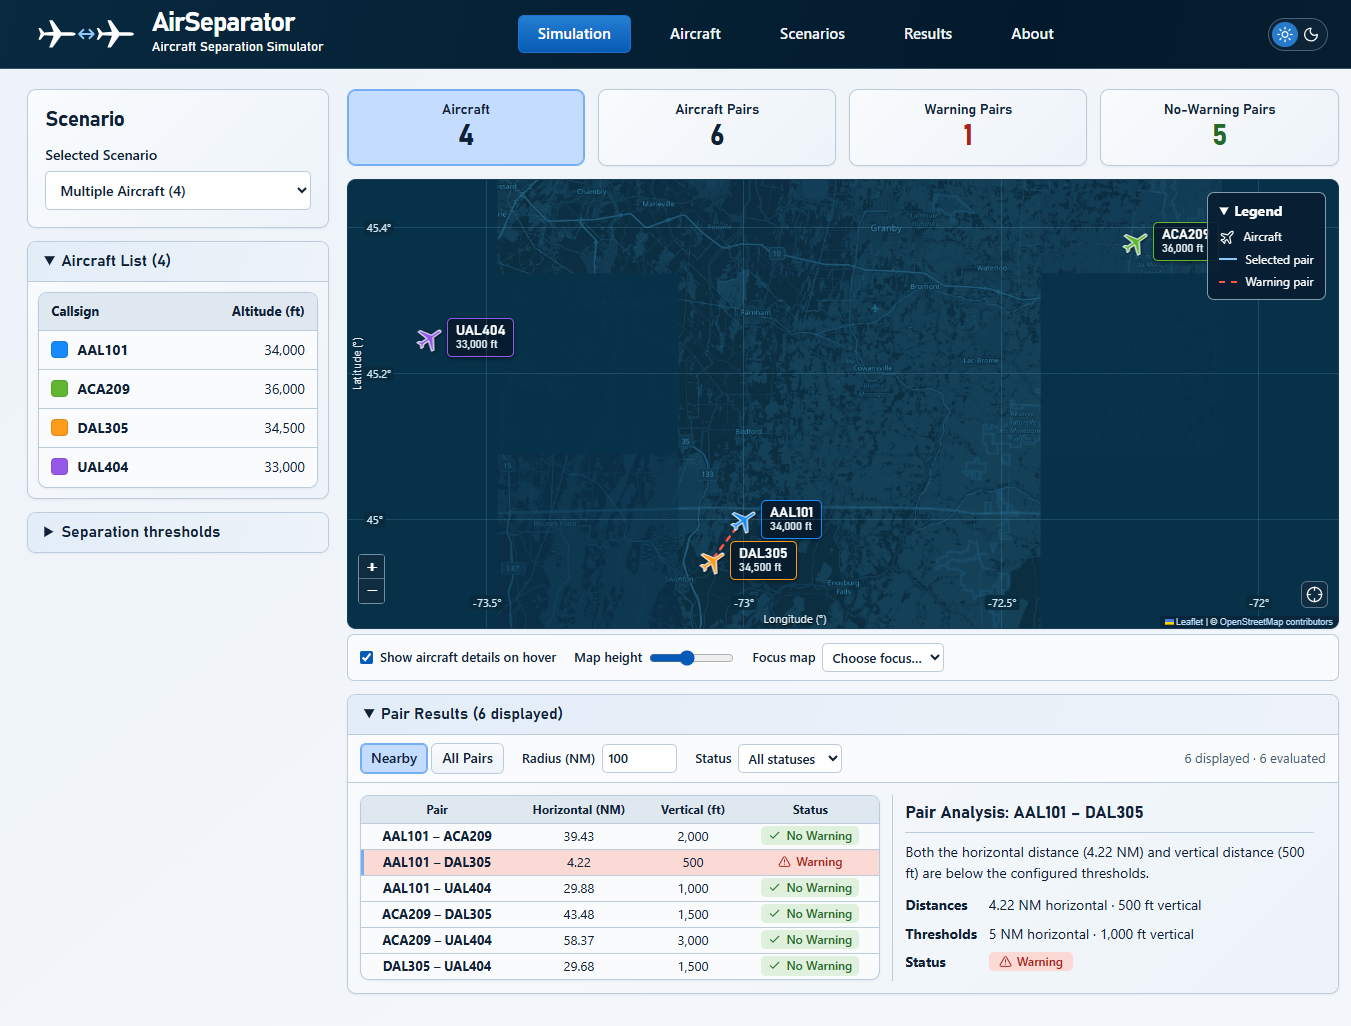
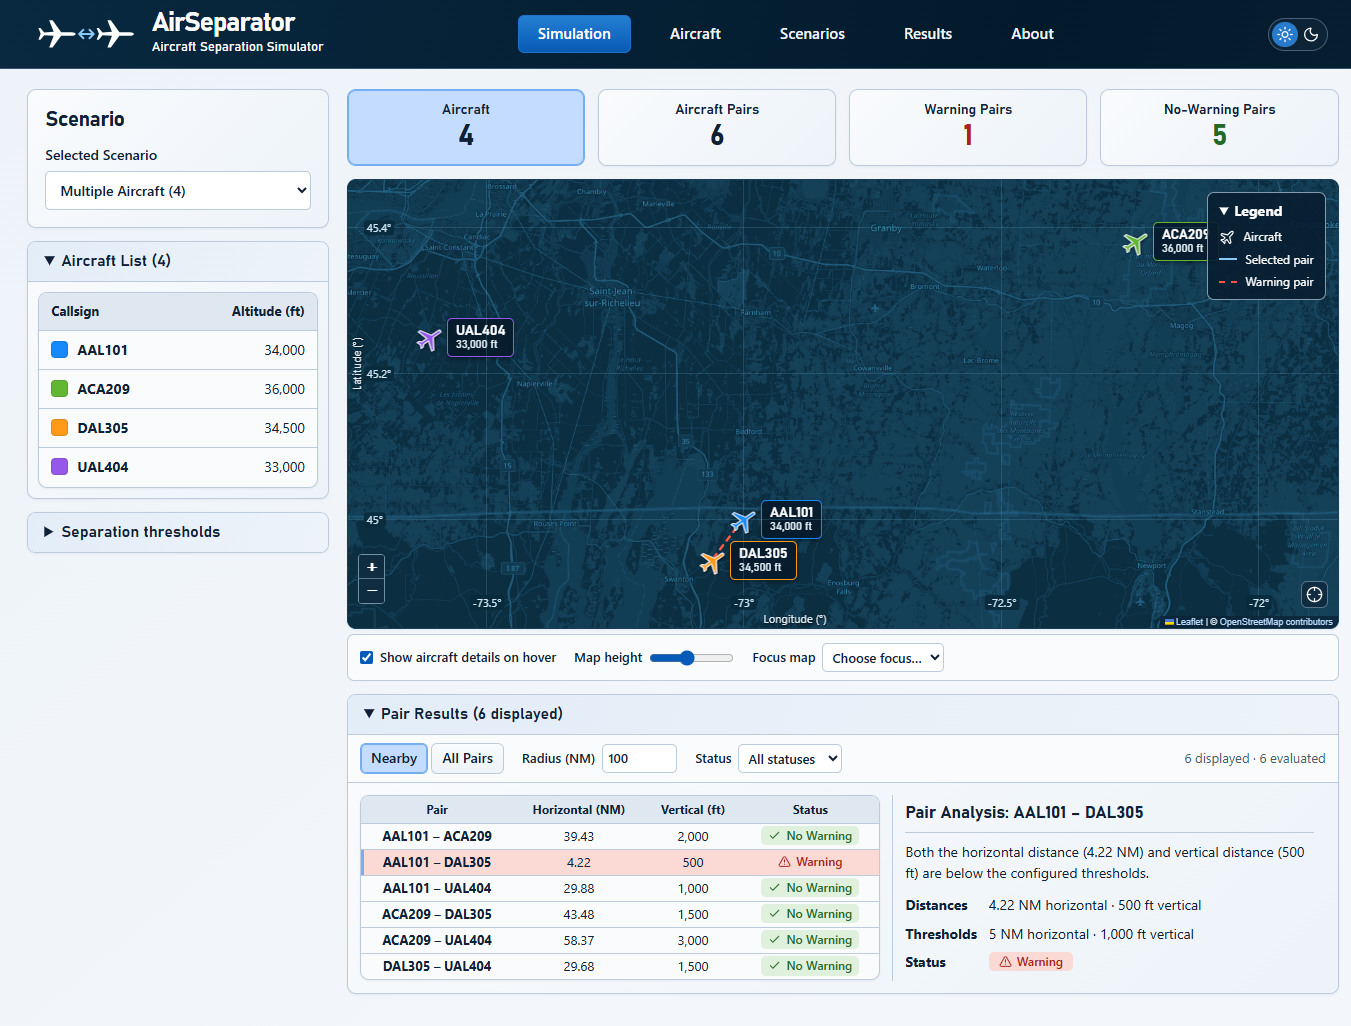
Sprint 3: Docker, UI & Improvements wraps up.

diff --git a/frontend/src/AircraftForm.tsx b/frontend/src/AircraftForm.tsx
@@ -1,7 +1,7 @@
 import { useState, type FormEvent } from 'react'
 import { ChevronDown } from 'lucide-react'
 import { fields, validateAircraft, type Draft } from './aircraftInput'
-import { palette, type MarkerAircraft } from './scenario'
+import { maxUserAircraft, palette, type MarkerAircraft } from './scenario'
 import { suggestedColor } from './airlines'
 
 interface Props {
@@ -9,6 +9,7 @@ interface Props {
   original?: MarkerAircraft
   roster: MarkerAircraft[]
   limit: number
+  userCount: number
   onSave: (p: MarkerAircraft) => void
   onCancel?: () => void
 }
@@ -21,7 +22,7 @@ function draftOf(p?: MarkerAircraft): Draft {
     color: p?.color ?? palette[0],
   }
 }
-export function AircraftForm({ mode, original, roster, limit, onSave, onCancel }: Props) {
+export function AircraftForm({ mode, original, roster, limit, userCount, onSave, onCancel }: Props) {
   const [draft, setDraft] = useState(() => draftOf(original))
   const [manualColor, setManualColor] = useState(!!original)
   const [error, setError] = useState('')
@@ -34,6 +35,8 @@ export function AircraftForm({ mode, original, roster, limit, onSave, onCancel }
   function submit(e: FormEvent) {
     e.preventDefault()
     try {
+      if (!edit && userCount >= maxUserAircraft)
+        throw Error('You have reached the limit of ' + maxUserAircraft + ' user-added aircraft. Remove an aircraft before adding another.')
       if (!edit && roster.length >= limit)
         throw Error('A calculation supports at most ' + limit + ' aircraft.')
       const p = validateAircraft(draft, new Set(roster.filter((a) => a !== original).map((a) => a.callSign)))

diff --git a/frontend/src/AirspaceMap.tsx b/frontend/src/AirspaceMap.tsx
@@ -151,7 +151,7 @@ export function AirspaceMap({
     const view = map.current!, layer = L.layerGroup().addTo(view)
     const popup = L.popup({autoPan: false, closeButton: false, offset: [0, -12], className:'aircraft-popup'})
     let pinned: L.Marker | undefined
-    const close = () => { pinned = undefined; popup.remove() }
+    const close = () => { pinned = undefined; view.closePopup(popup) }
     view.on('click', close)
     function escape(e: KeyboardEvent) { if (e.key === 'Escape') close() }
     view.getContainer().addEventListener('keydown', escape)
@@ -176,9 +176,13 @@ export function AirspaceMap({
       const element = m.getElement()!
       element.setAttribute('aria-label', p.callSign + ', aircraft details')
       const show = () => popup.setLatLng(m.getLatLng()).setContent(detailContent(p)).openOn(view)
-      const hideTransient = () => { if (!pinned) popup.remove() }
+      const hideTransient = () => { if (!pinned) view.closePopup(popup) }
       if (hover) m.on('mouseover', () => { if (!pinned) show() }).on('mouseout', hideTransient)
-      element.addEventListener('focus', () => { if (!pinned) show() })
+      element.addEventListener('focus', () => {
+        window.setTimeout(() => {
+          if (!pinned && document.activeElement === element) show()
+        }, 0)
+      })
       element.addEventListener('blur', hideTransient)
       const toggle = () => { if (pinned === m) close(); else { pinned = m; show() } }
       m.on('click', toggle)

diff --git a/frontend/src/aircraftInput.ts b/frontend/src/aircraftInput.ts
@@ -1,4 +1,4 @@
-import { inRange, type MarkerAircraft } from './scenario'
+import { inRange, maxUserAircraft, type MarkerAircraft } from './scenario'
 import { suggestedColor } from './airlines'
 export const fields = [
   { key: 'latitudeDegrees', label: 'Latitude (°)', min: -90, max: 90, example: '45.0000' },
@@ -94,6 +94,11 @@ export function importCsv(text: string, scenario: MarkerAircraft[], user: Marker
     }
   })
   if (!added.length) throw Error('Include at least one aircraft row beneath the header.')
+  const userTotal = (mode === 'merge' ? user.length : 0) + added.length
+  if (userTotal > maxUserAircraft)
+    throw Error('This import would create ' + userTotal + ' user-added aircraft. The limit is ' + maxUserAircraft +
+      '. Remove ' + (userTotal - maxUserAircraft) + ' aircraft or CSV rows' +
+      (mode === 'merge' && user.length && added.length <= maxUserAircraft ? ', or choose Replace User-Added.' : '.'))
   const total = retained.length + added.length
   if (total > limit) {
     const counts = scenario.length + ' scenario + ' + (mode === 'merge' ? user.length : 0) + ' user-added + ' + added.length + ' imported = ' + total

diff --git a/frontend/src/App.tsx b/frontend/src/App.tsx
@@ -8,6 +8,7 @@ import { ResultsPage } from './ResultsPage'
 import { AboutPage } from './AboutPage'
 import {
   calculationBody,
+  maxTotalAircraft,
   inRange,
   pairId,
   type MarkerAircraft,
@@ -65,7 +66,7 @@ export default function App() {
     !!config &&
     inRange(values.horizontalNm, config.limits.horizontalNm) &&
     inRange(values.verticalFeet, config.limits.verticalFeet)
-  const limit = config?.limits.aircraft.max ?? 20
+  const limit = config?.limits.aircraft.max ?? maxTotalAircraft
   const validCount = aircraft.length >= (config?.limits.aircraft.min ?? 2) && aircraft.length <= limit
   const calc = useApi<Results>(
     '/api/conflicts',
@@ -97,7 +98,7 @@ export default function App() {
     : !config
       ? 'Connecting to the engine…'
       : !validCount
-        ? 'Use 2–20 aircraft to calculate separation.'
+        ? 'Use ' + (config?.limits.aircraft.min ?? 2) + '–' + limit + ' aircraft to calculate separation.'
         : !validThresholds
           ? 'Enter thresholds within the displayed ranges.'
           : 'Calculating separation…'

diff --git a/frontend/src/session.ts b/frontend/src/session.ts
@@ -1,4 +1,4 @@
-import { initialScenario, samples, type MarkerAircraft } from './scenario'
+import { initialScenario, samples, maxUserAircraft, maxTotalAircraft, type MarkerAircraft } from './scenario'
 import { validateAircraft, type Draft } from './aircraftInput'
 import type { CatalogSelection } from './ScenariosPage'
 
@@ -11,7 +11,8 @@ export function readSession() {
     if (!raw) return initial
     const saved = JSON.parse(raw)
     const sample = samples.find(s => s.name === saved.name)
-    if (!sample || !Array.isArray(saved.scenario) || !Array.isArray(saved.user) || saved.scenario.length + saved.user.length > 20) return initial
+    if (!sample || !Array.isArray(saved.scenario) || !Array.isArray(saved.user) ||
+        saved.user.length > maxUserAircraft || saved.scenario.length + saved.user.length > maxTotalAircraft) return initial
     const used = new Set<string>()
     function restore(p: MarkerAircraft) {
       const draft = Object.fromEntries(Object.entries(p).map(([key, v]) => [key, String(v)])) as Draft

diff --git a/frontend/src/AircraftPage.tsx b/frontend/src/AircraftPage.tsx
@@ -209,6 +209,7 @@ export function AircraftPage({ user, scenario, limit, add, replace, remove }: Pr
           mode="Add"
           roster={roster}
           limit={limit}
+          userCount={user.length}
           onSave={(p) => {
             add([p])
             setTab('user')
@@ -224,6 +225,7 @@ export function AircraftPage({ user, scenario, limit, add, replace, remove }: Pr
             original={editing}
             roster={roster}
             limit={limit}
+            userCount={user.length}
             onSave={(p) => {
               if (editing) replace(editing, p)
               setEditing(p)

diff --git a/frontend/src/AboutPage.tsx b/frontend/src/AboutPage.tsx
@@ -72,7 +72,7 @@ const sections = [
     items: [
       'Preview and load examples on Scenarios. User-added aircraft stay in the roster.',
       'On Aircraft, enter a unique callsign, position, altitude, and map color, or import a CSV.',
-      'Use 2–20 aircraft to calculate results. Expand Separation thresholds to adjust the limits.',
+      'Use 2–50 aircraft to calculate results. You can add up to 30 of your own. Expand Separation thresholds to adjust the limits.',
       'Choose a pair to inspect its distances and status on Simulation or Results.',
     ],
   },

diff --git a/frontend/src/scenario.ts b/frontend/src/scenario.ts
@@ -4,6 +4,8 @@ export interface Aircraft {
   longitudeDegrees: number
   altitudeFeet: number
 }
+export const maxUserAircraft = 30
+export const maxTotalAircraft = 50
 export interface MarkerAircraft extends Aircraft {
   color: string
 }

diff --git a/frontend/src/styles.css b/frontend/src/styles.css
@@ -989,6 +989,9 @@ em {
 }
 .error {
   background: var(--warn-bg);
+  border: 1px solid var(--warn);
+  border-left: 4px solid var(--warn);
+  line-height: 1.5;
 }
 .empty {
   padding: 15px;

diff --git a/backend/tests/test_api.py b/backend/tests/test_api.py
@@ -58,7 +58,7 @@ class ApiTests(unittest.TestCase):
         self.assertEqual(self.request("/api/config"), {
             "defaults": {"horizontalNm": 5, "verticalFeet": 1000},
             "limits": {"horizontalNm": {"min": 0.5, "max": 20},
-                       "verticalFeet": {"min": 100, "max": 5000}, "aircraft": {"min": 2, "max": 20}}})
+                       "verticalFeet": {"min": 100, "max": 5000}, "aircraft": {"min": 2, "max": 50}}})
 
     def test_pair_and_reversed_order(self):
         aircraft = [plane("a123", lon=179.99), plane("b2", lon=-179.99, altitude=10400)]
@@ -101,6 +101,10 @@ class ApiTests(unittest.TestCase):
         expected = list(itertools.combinations([p["callSign"] for p in aircraft], 2))
         self.assertEqual([(p["callSignA"], p["callSignB"]) for p in result["pairs"]], expected)
         self.assertEqual(result["warningCount"], 190)
+        aircraft = [plane(f"P{i}") for i in range(50)]
+        result = self.request("/api/conflicts", {"aircraft": aircraft})
+        self.assertEqual(len(result["pairs"]), 1225)
+        self.assertEqual(result["warningCount"], 1225)
 
     def test_invalid_aircraft(self):
         for field, values in {
@@ -127,7 +131,7 @@ class ApiTests(unittest.TestCase):
             self.request("/api/conflicts", {"aircraft": aircraft, "thresholds": thresholds}, expected=400)
         for body in [[], {}, {"aircraft": {}}, {"aircraft": [None, plane("A")]},
                      {"aircraft": []}, {"aircraft": [plane("A")]},
-                     {"aircraft": [plane(f"P{i}") for i in range(21)]}]:
+                     {"aircraft": [plane(f"P{i}") for i in range(51)]}]:
             self.request("/api/conflicts", body, expected=400)
         self.request("/api/separation", {"aircraft": aircraft + [plane("C")]}, expected=400)
         for raw in ["{", '{"aircraft":', '1e999', 'null']:

diff --git a/backend/src/Separation.cpp b/backend/src/Separation.cpp
@@ -52,7 +52,7 @@ double horizontalSeparationNm(const Aircraft& a, const Aircraft& b) {
 
 ScenarioResult evaluateScenario(std::vector<Aircraft> aircraft, SeparationThresholds thresholds) {
     if (aircraft.size() < minAircraft || aircraft.size() > maxAircraft) {
-        throw std::invalid_argument("a scenario must contain 2 to 20 aircraft");
+        throw std::invalid_argument("a scenario must contain 2 to " + std::to_string(maxAircraft) + " aircraft");
     }
     checkRange(thresholds.horizontalNm, thresholds.minHorizontalNm, thresholds.maxHorizontalNm, "horizontalNm");
     checkRange(thresholds.verticalFeet, thresholds.minVerticalFeet, thresholds.maxVerticalFeet, "verticalFeet");

diff --git a/backend/src/server.cpp b/backend/src/server.cpp
@@ -62,7 +62,7 @@ Json separationResponse(const Json& body, bool singlePair) {
         throw std::invalid_argument("/api/separation requires exactly 2 aircraft");
     }
     if (entries.size() < minAircraft || entries.size() > maxAircraft) {
-        throw std::invalid_argument("a scenario must contain 2 to 20 aircraft");
+        throw std::invalid_argument("a scenario must contain 2 to " + std::to_string(maxAircraft) + " aircraft");
     }
     SeparationThresholds thresholds;
     if (body.contains("thresholds")) {
